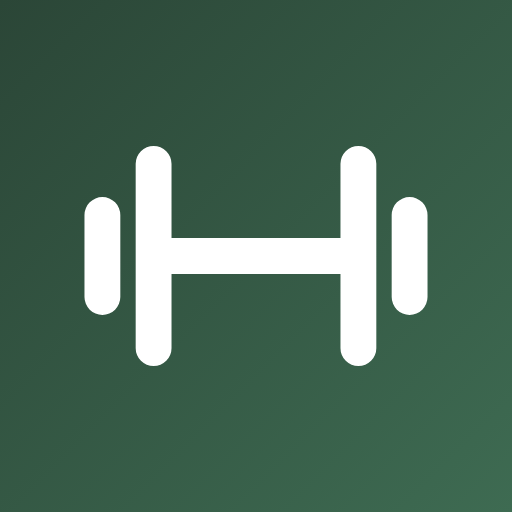
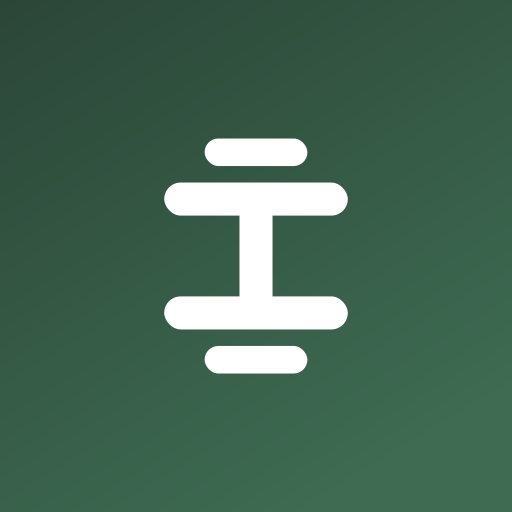
Marca PassosFit: nome, ícone (halter em pé), tela de login, check-in e mensagens
Claude-Session: https://claude.ai/code/session_019qNKkKWrc1vowG23Su4XCA

Changed region(s): [[0.1562, 0.25, 0.8438, 0.75]]

diff --git a/index.html b/index.html
@@ -5,10 +5,11 @@
 <meta name="viewport" content="width=device-width,initial-scale=1,maximum-scale=1,user-scalable=no,viewport-fit=cover">
 <meta name="theme-color" content="#2b4637">
 <meta name="apple-mobile-web-app-capable" content="yes">
-<title>Planilha de Treino</title>
+<title>PassosFit</title>
 <link rel="manifest" href="manifest.webmanifest">
 <link rel="apple-touch-icon" href="icon-192.png">
-<meta name="apple-mobile-web-app-title" content="Treino">
+<link rel="icon" type="image/png" href="icon-192.png">
+<meta name="apple-mobile-web-app-title" content="PassosFit">
 <style>
 :root{
   --bg:#f2f3f0; --card:#fff; --text:#1f2621; --muted:#6b736d; --line:#e1e4de;
@@ -156,6 +157,8 @@ body.locked > header, body.locked > main, body.locked > nav, body.locked > #stud
 @keyframes lift{0%,62%{transform:translateY(0)}70%{transform:translateY(-14px)}78%,100%{transform:translateY(0)}}
 @media (prefers-reduced-motion:reduce){.loader .pl,.loader .lift{animation:none;opacity:1}}
 .auth-logo svg{width:30px;height:30px;fill:none;stroke:var(--acc);stroke-width:1.8;stroke-linecap:round}
+.auth-logo svg.pf-mark{width:24px;height:31px;fill:var(--acc);stroke:none}
+.auth-slogan{margin:-4px 0 6px;color:var(--muted);font-size:14px;font-weight:600;letter-spacing:.04em}
 .auth-links{display:flex;flex-direction:column;align-items:center;gap:10px;margin-top:14px}
 .auth-links .link{font-size:14px}
 
@@ -368,7 +371,7 @@ nav.bottom button.on{background:var(--acc-soft);color:var(--acc)}
 .demo-steps{margin:0;padding-left:20px;font-size:14.5px;line-height:1.45}.demo-steps li{margin-bottom:6px}
 /* ---- computador (professor) ---- */
 body.desk nav.bottom{top:0;bottom:0;right:auto;width:228px;flex-direction:column;justify-content:flex-start;align-items:stretch;gap:4px;border-top:0;border-right:1px solid var(--line);padding:20px 12px;box-shadow:none}
-body.desk nav.bottom::before{content:'Planilha de Treino';font-weight:800;font-size:16px;padding:4px 12px 16px;color:var(--text)}
+body.desk nav.bottom::before{content:'PassosFit';font-weight:800;font-size:16px;padding:4px 12px 16px;color:var(--text)}
 body.desk nav.bottom button{flex:none;max-width:none;flex-direction:row;justify-content:flex-start;gap:12px;padding:11px 12px;font-size:14.5px;border-radius:12px}
 body.desk .hero{margin-left:228px;border-radius:0 0 0 28px;padding-bottom:52px}
 body.desk .hero-in{max-width:1240px;padding:0 16px}
@@ -575,7 +578,7 @@ input,select,textarea{font-size:16px!important}
 <body>
 <div id="auth" hidden>
   <div class="auth-card">
-    <div class="auth-logo" id="authLogo" aria-hidden="true"><svg viewBox="0 0 24 24"><path d="M6 7v10M18 7v10M3 10v4M21 10v4M6 12h12"/></svg></div>
+    <div class="auth-logo" id="authLogo" aria-hidden="true"><svg viewBox="0 0 100 128" class="pf-mark"><rect x="22" y="0" width="56" height="15" rx="7.5"/><rect x="0" y="24" width="100" height="18" rx="9"/><rect x="41" y="40" width="18" height="48"/><rect x="0" y="86" width="100" height="18" rx="9"/><rect x="22" y="113" width="56" height="15" rx="7.5"/></svg></div>
     <div class="loader" id="authLoader" hidden aria-hidden="true">
       <svg viewBox="0 0 220 90"><g class="lift">
         <rect class="bar" x="8" y="42" width="204" height="6" rx="3"/>
@@ -586,7 +589,8 @@ input,select,textarea{font-size:16px!important}
       </g></svg>
       <div class="loader-kg"><b id="loaderKg">20</b> kg</div>
     </div>
-    <h1>Planilha de Treino</h1>
+    <h1>Passos<span style="color:var(--acc)">Fit</span></h1>
+    <p class="auth-slogan">um passo por dia</p>
     <p id="authSub">Carregando…</p>
     <form id="authForm" hidden>
       <label class="f" id="authNameF" hidden>Seu nome<input name="nome" autocomplete="name" placeholder="ex.: Maria Souza"></label>
@@ -1376,7 +1380,7 @@ const selfTabsHtml = () => selfTabs().length < 2 ? '' : `<div class="self-tabs">
 // Quem usa só o app: área que apresenta a consultoria (com botão para falar com o professor)
 function renderConsultTab(p, greet) {
   const cn = p.coachName || (!CLOUD || (cloud && cloud.role === 'admin') ? (profile(ME) || {}).name : ''), coach = cn ? firstName({ name: cn }) : 'seu professor', asked = p.consultReq;
-  const msg = `Oi, ${coach}! Aqui é ${firstName(p)}, uso o app de treino e quero saber mais sobre a consultoria.`;
+  const msg = `Oi, ${coach}! Aqui é ${firstName(p)}, uso o app PassosFit e quero saber mais sobre a consultoria.`;
   $main.innerHTML = `${greet}${selfTabsHtml()}
     <section class="card consult-card"><h2 style="margin:0 0 6px">Treine com acompanhamento</h2>
       <p style="margin:0 0 12px;color:var(--muted)">Na consultoria, ${esc(coach)} monta e ajusta o seu treino e acompanha a sua evolução de perto.</p>
@@ -1918,7 +1922,7 @@ function drawCheckin() {
   const cardio = st.cardio ? `${fmtMin(st.cardio)} min de cardio` : '';
   const brand = (y, center, color = '#fff') => { // divulgação do app
     const x = center ? W / 2 : 80; g.fillStyle = color; g.textAlign = center ? 'center' : 'left';
-    g.shadowColor = 'rgba(0,0,0,.45)'; g.shadowBlur = 12; g.font = F(900, 32); g.fillText('PLANILHA DE TREINO', x, y); g.globalAlpha = .8; g.font = F(500, 27); g.fillText(siteTxt(), x, y + 40); g.globalAlpha = 1; g.shadowBlur = 0; g.textAlign = 'left'; };
+    g.shadowColor = 'rgba(0,0,0,.45)'; g.shadowBlur = 12; g.font = F(900, 32); g.fillText('PASSOSFIT', x, y); g.globalAlpha = .8; g.font = F(500, 27); g.fillText(siteTxt(), x, y + 40); g.globalAlpha = 1; g.shadowBlur = 0; g.textAlign = 'left'; };
   const check = (cx, cy, r, bg, fg) => { g.fillStyle = bg; g.beginPath(); g.arc(cx, cy, r, 0, Math.PI * 2); g.fill(); g.strokeStyle = fg; g.lineWidth = r * .2; g.lineCap = 'round'; g.lineJoin = 'round';
     g.beginPath(); g.moveTo(cx - r * .42, cy + r * .02); g.lineTo(cx - r * .1, cy + r * .34); g.lineTo(cx + r * .46, cy - r * .3); g.stroke(); };
   const pill = (txt, x, y, px, bg, fg, center) => { g.font = F(800, px); const tw = g.measureText(txt).width, w = tw + px * 1.4, h = px * 1.9, x0 = center ? x - w / 2 : x;
@@ -1940,7 +1944,7 @@ function drawCheckin() {
     g.font = F(800, 40); const lt = siteTxt(), lw = g.measureText(lt).width + 80;
     g.fillStyle = 'rgba(255,255,255,.95)'; rr(g, (W - lw) / 2, ly + 28, lw, 84, 42); g.fill();
     g.fillStyle = '#121a16'; g.fillText(lt, W / 2, ly + 84);
-    g.font = F(900, 30); g.fillStyle = '#fff'; g.shadowBlur = 12; g.globalAlpha = .9; g.fillText('PLANILHA DE TREINO', W / 2, ly + 170); g.globalAlpha = 1; g.shadowBlur = 0;
+    g.font = F(900, 30); g.fillStyle = '#fff'; g.shadowBlur = 12; g.globalAlpha = .9; g.fillText('PASSOSFIT', W / 2, ly + 170); g.globalAlpha = 1; g.shadowBlur = 0;
     g.textAlign = 'left';
   }
 }
@@ -2779,11 +2783,11 @@ const appLink = () => `${location.origin}${location.pathname}`;
 function appLinkText(p) {
   const n = firstName(p);
   return p.uid
-    ? `Oi, ${n}! Este é o link do nosso app de treino:\n\n${appLink()}\n\n1. Toque no link.\n2. Entre com o seu e-mail e a sua senha.\n3. O próprio app vai mostrar como colocar o ícone na tela do seu celular. Depois é só tocar no ícone para abrir. 💪`
-    : `Oi, ${n}! Este é o link do nosso app de treino:\n\n${inviteLink(p)}\n\n1. Toque no link.\n2. Crie sua conta com o seu e-mail e uma senha.\n3. O próprio app vai mostrar como colocar o ícone na tela do seu celular. Depois é só tocar no ícone para abrir. 💪`;
+    ? `Oi, ${n}! Este é o link do app PassosFit:\n\n${appLink()}\n\n1. Toque no link.\n2. Entre com o seu e-mail e a sua senha.\n3. O próprio app vai mostrar como colocar o ícone na tela do seu celular. Depois é só tocar no ícone para abrir. 💪`
+    : `Oi, ${n}! Este é o link do app PassosFit:\n\n${inviteLink(p)}\n\n1. Toque no link.\n2. Crie sua conta com o seu e-mail e uma senha.\n3. O próprio app vai mostrar como colocar o ícone na tela do seu celular. Depois é só tocar no ícone para abrir. 💪`;
 }
 // Professor: link de primeiro acesso para qualquer pessoa (cria a conta e pede para entrar)
-const signupText = () => `Oi! Este é o link do nosso app de treino:\n\n${signupLink()}\n\n1. Toque no link.\n2. O app mostra como colocar o ícone na tela do seu celular. Faça isso primeiro.\n3. Abra o app pelo ícone e crie sua conta com seu nome, e-mail e uma senha.\n4. Pronto! Assim que eu liberar, o app abre sozinho. 💪`;
+const signupText = () => `Oi! Este é o link do app PassosFit:\n\n${signupLink()}\n\n1. Toque no link.\n2. O app mostra como colocar o ícone na tela do seu celular. Faça isso primeiro.\n3. Abra o app pelo ícone e crie sua conta com seu nome, e-mail e uma senha.\n4. Pronto! Assim que eu liberar, o app abre sozinho. 💪`;
 function signupLinkHtml() {
   if (!CLOUD || !cloud) return '';
   return `<section class="card"><div class="card-h"><div class="grow"><h3>Link de primeiro acesso</h3>
@@ -5255,7 +5259,7 @@ document.getElementById('authForgot').onclick = async () => {
 
 // ---------- Atualização automática ----------
 // O celular guarda uma cópia do app; ao abrir (ou voltar para o app), confere se há versão nova e recarrega.
-const APP_VERSION = '06/10-20:50';
+const APP_VERSION = '06/10-22:26';
 async function checkUpdate() {
   if (!/^https?:/.test(location.protocol)) return;
   try {

diff --git a/README.md b/README.md
@@ -1,4 +1,4 @@
-# Planilha de Treino
+# PassosFit
 
 > Para professores: tem uma área para o **seu treino particular** e uma para **acompanhar cada aluno**.
 
